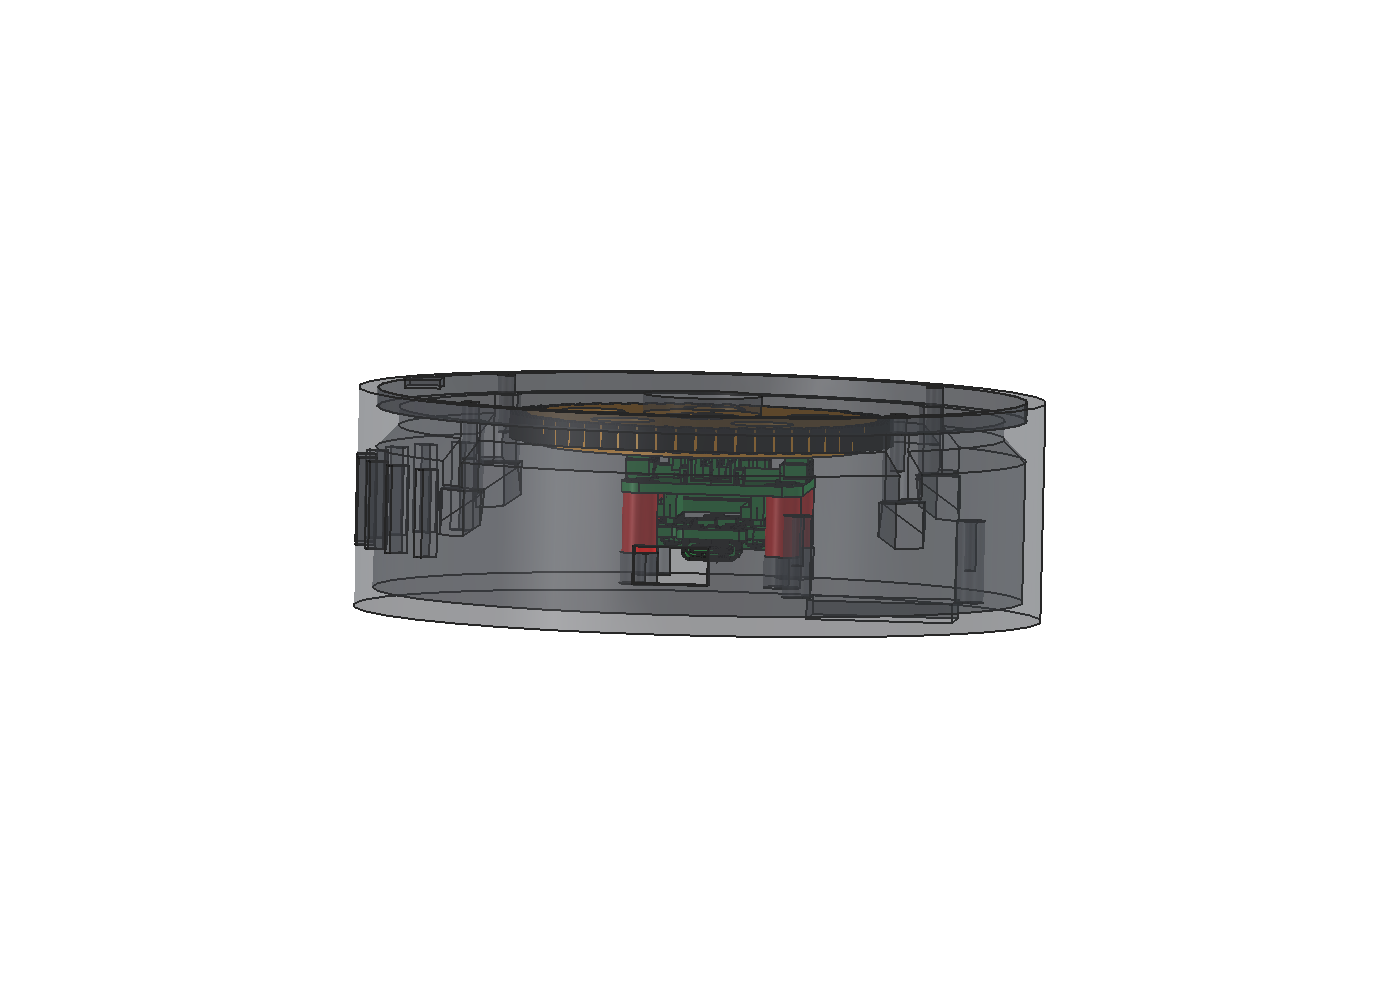
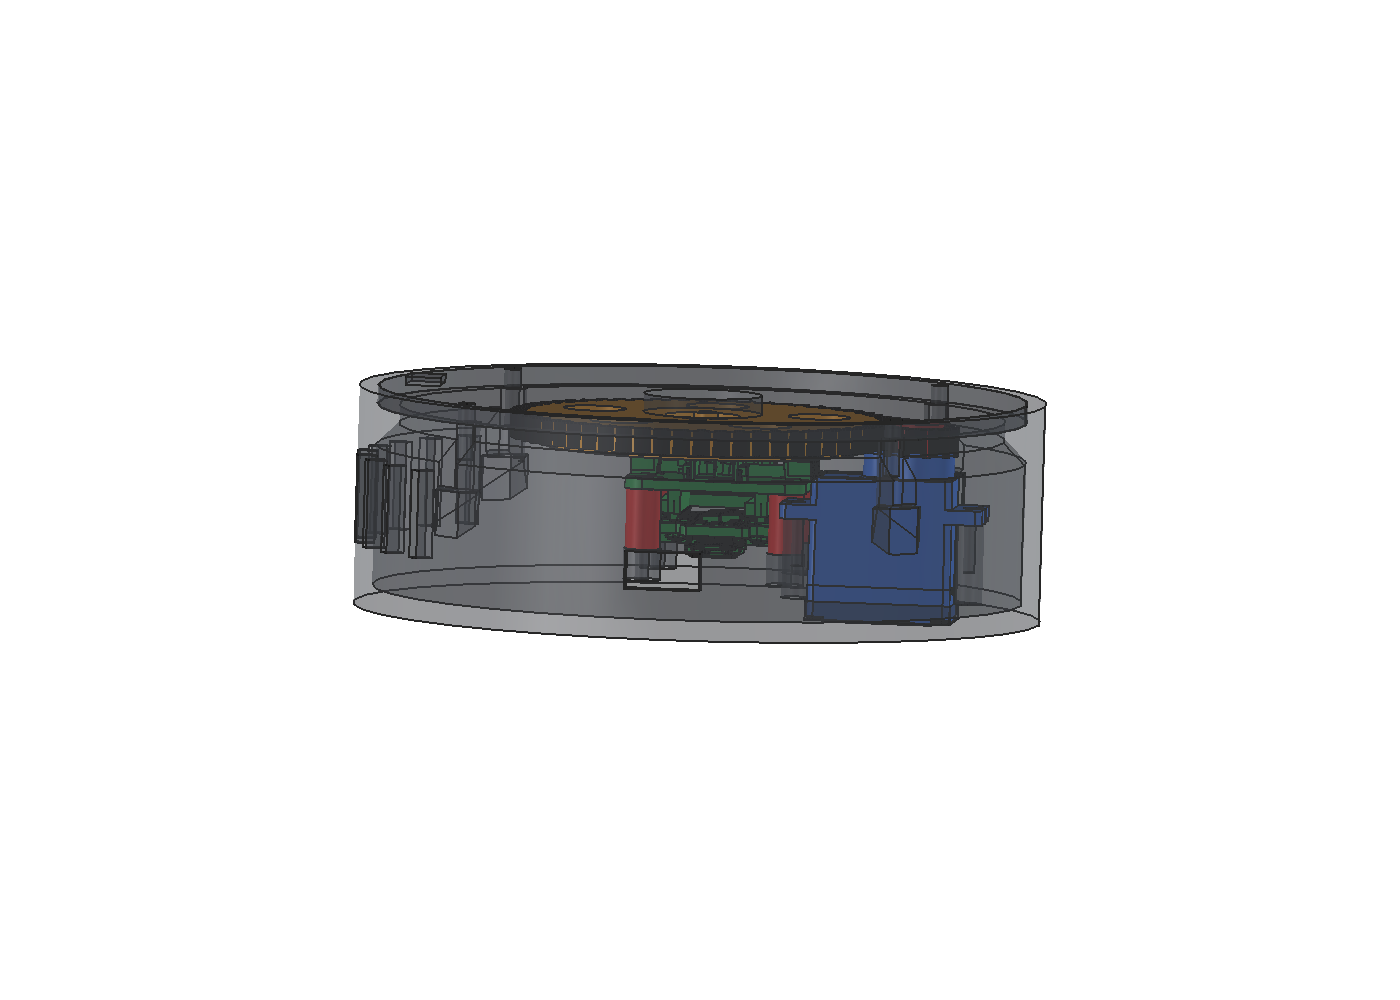
pushrod-arm: anh duyet de them banh rang z10 servo (lan dau render sot, model khong thieu) + anh tu tren

Changed region(s): [[0.2457, 0.341, 0.7371, 0.651]]

diff --git a/claude-workspace/maker/pushrod-arm/freecad/scripts/render_review.py b/claude-workspace/maker/pushrod-arm/freecad/scripts/render_review.py
@@ -16,7 +16,8 @@ OUT = os.path.join(FC, "images", "review")
 COL = {"Housing_*": (0.78, 0.80, 0.84), "Worm_*": (0.95, 0.55, 0.10), "CB_030_gearbox_*": (0.20, 0.45, 0.85),
        "Pin_gearbox_*": (0.85, 0.15, 0.15), "Pinion_WormWheel_*": (0.20, 0.65, 0.30), "Rack_*": (0.60, 0.35, 0.75),
        "CB_XA003_XA004_receiver": (0.15, 0.55, 0.25), "Receiver_riser": (0.85, 0.15, 0.15),
-       "Turntable_gear_m1_z60": (0.95, 0.60, 0.15), "CB_Servo9g_360_turntable": (0.20, 0.40, 0.85)}
+       "Turntable_gear_m1_z60": (0.95, 0.60, 0.15), "CB_Servo9g_360_turntable": (0.20, 0.40, 0.85),
+       "Pinion_m1_z10_turntable": (0.85, 0.15, 0.15)}
 SHOTS = [  # (ten, glob hien, huong nhin, trong suot {glob: %})
     ("01-cylinder-shoulder-iso", ["*_Shoulder", "Pin_gearbox_Shoulder"], "iso", {}),
     ("02-cylinder-shoulder-from-motor", ["*_Shoulder"], "rear", {}),
@@ -24,10 +25,15 @@ SHOTS = [  # (ten, glob hien, huong nhin, trong suot {glob: %})
     ("04-housing-elbow-number-5", ["Housing_Elbow"], "front", {}),
     ("05-cylinder-elbow-iso", ["*_Elbow", "Pin_gearbox_Elbow"], "iso", {}),
     ("06-gearbox-cradle-no-gearbox", ["Housing_Shoulder", "Worm_Shoulder", "Pinion_WormWheel_Shoulder"], "iso", {}),
+    # 2026-10-24: lan dau quen Pinion_m1_z10_turntable -> anh "servo khong co banh rang" (Tuan hoi). Danh sach o day
+    # la de CHON chi tiet cho anh, khong phai model - them chi tiet moi vao de thi phai them vao day.
     ("07-base-receiver", ["Base_housing", "CB_XA003_XA004_receiver", "Receiver_riser", "Turntable_gear_m1_z60",
-                          "CB_Servo9g_360_turntable", "Battery_bay"], "iso", {"Base_housing": 70}),
+                          "Pinion_m1_z10_turntable", "CB_Servo9g_360_turntable", "Battery_bay"], "iso", {"Base_housing": 70}),
     ("08-base-receiver-side", ["Base_housing", "Base_deck", "CB_XA003_XA004_receiver", "Receiver_riser",
-                               "Turntable_gear_m1_z60"], "front", {"Base_housing": 70, "Base_deck": 70}),
+                               "Turntable_gear_m1_z60", "Pinion_m1_z10_turntable", "CB_Servo9g_360_turntable"], "front",
+     {"Base_housing": 70, "Base_deck": 70}),
+    ("10-base-gears-top", ["Turntable_gear_m1_z60", "Pinion_m1_z10_turntable", "CB_Servo9g_360_turntable",
+                           "CB_XA003_XA004_receiver", "Receiver_riser"], "top", {}),
     ("09-full-arm", ["*"], "iso", {}),
 ]
 
